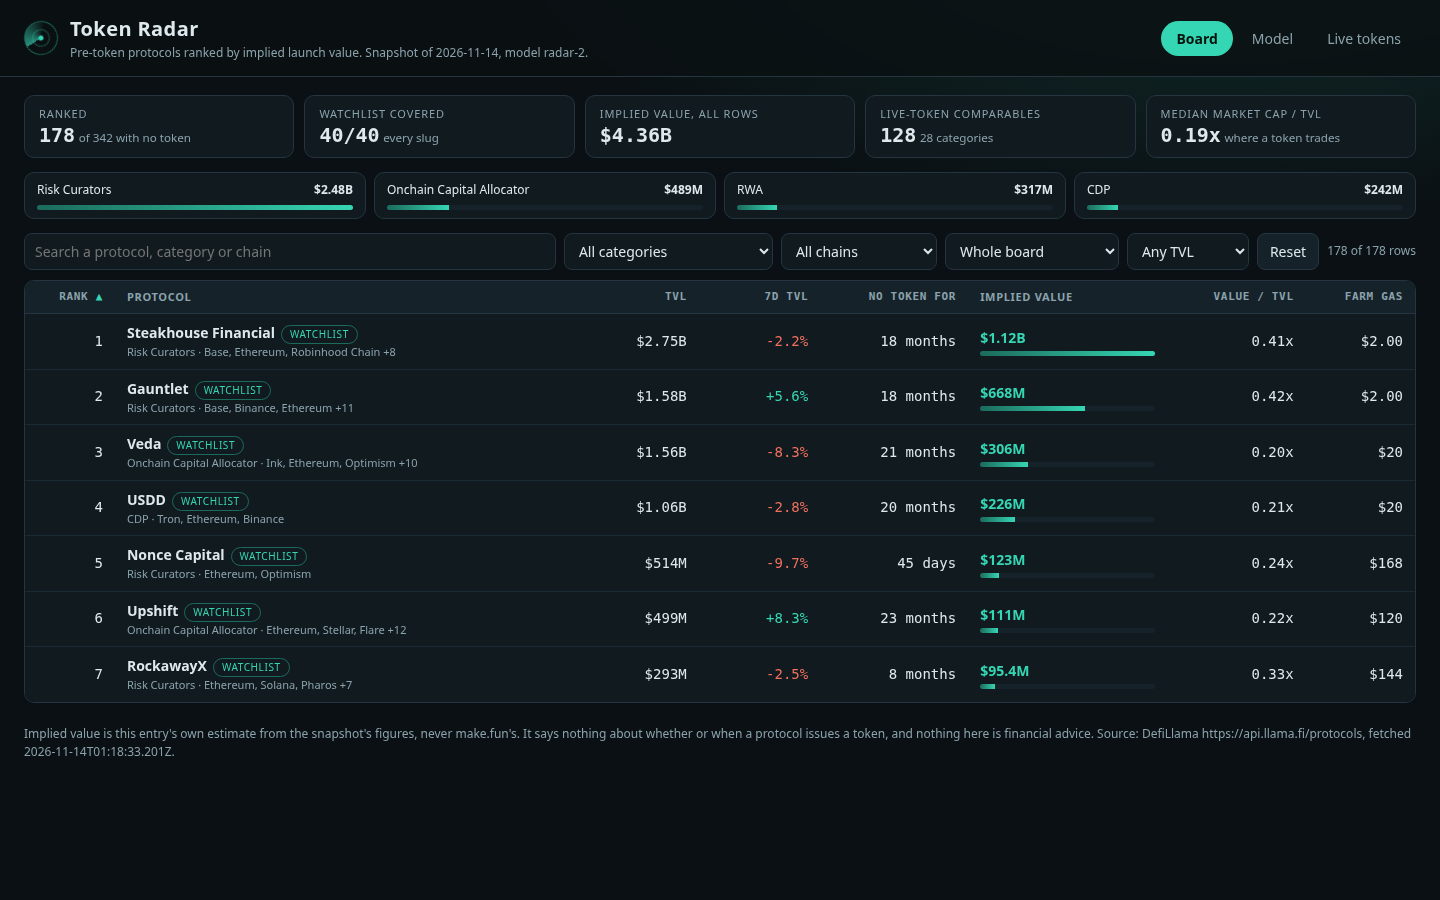
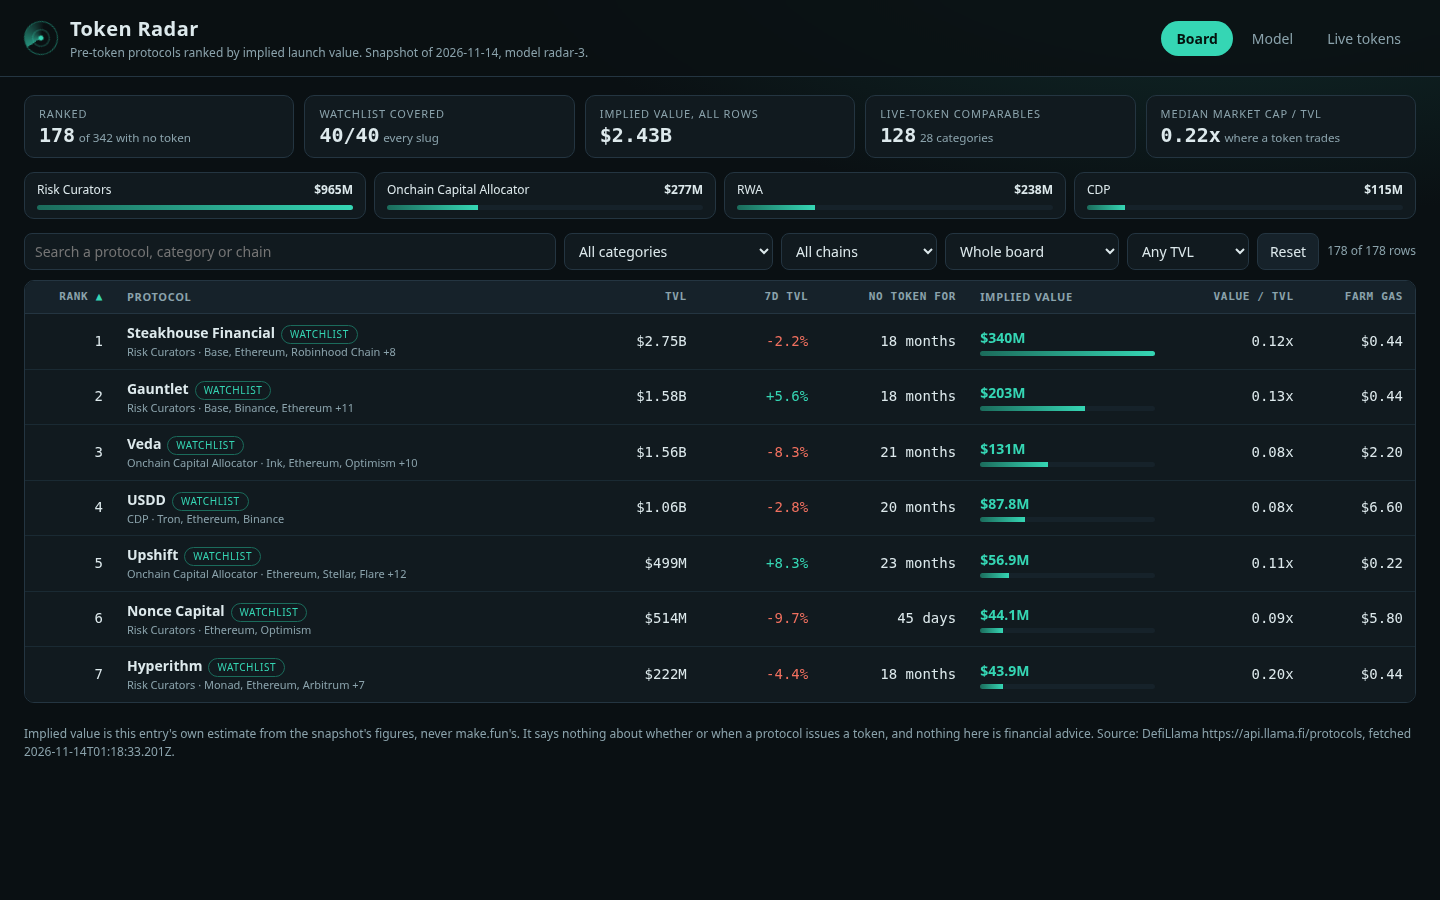
Radar 3: size effect fitted on the comparables, farm plans built from each protocol's own record
Claude-Session: https://claude.ai/code/session_01LBocYHXMdLD7upB1yK7C9V

diff --git a/lib/model.ts b/lib/model.ts
@@ -1,4 +1,4 @@
-// The token radar's model (radar-2): one snapshot in, one ranked board out. Standard library only.
+// The token radar's model (radar-3): one snapshot in, one ranked board out. Standard library only.
 //
 // A protocol is "pre-token" when the snapshot records no token for it (no market cap, no CoinGecko id,
 // no symbol). The board ranks pre-token protocols by an implied launch value, and keeps the protocols
@@ -9,8 +9,12 @@
 //   comparable   = per category, the median of mcap / TVL (each held to 0.03 .. 1.5) over live-token
 //                  protocols of that category, shrunk toward the median of all of them (K = 8
 //                  pseudo-peers) when the category has few, and held to 0.08 .. 1.0
-//   implied      = TVL x comparable x growth x quiet-time x reach
-//   growth       = 1 + 0.5 x clamp(change_7d, -50, +100) / 100              (0.75 .. 1.50)
+//   implied      = TVL x comparable x size x growth x quiet-time x reach
+//   size         = (TVL / median comparable TVL) ^ slope, held to 0.35 .. 1.6, where slope is the least-
+//                  squares slope of ln(mcap / TVL) on ln(TVL) over the same comparables, held to -0.45 .. 0:
+//                  the market pays less per dollar of TVL the bigger the protocol is, and the comparables'
+//                  own multiples are divided by that effect first, so it is counted once
+//   growth      = 1 + 0.5 x clamp(change_7d, -50, +100) / 100              (0.75 .. 1.50)
 //   quiet-time   = 0.7 + 0.5 x min(age, 730) / 730 - 0.25 x clamp((age - 1095) / 1095, 0, 1)
 //                  age is the days DefiLlama has tracked the protocol with no token (unknown: 540)
 //   reach        = 1 + 0.03 x min(chains - 1, 5)                            (1.00 .. 1.15)
@@ -50,6 +54,9 @@ export const MODEL = {
   comp_shrink_peers: 8,
   multiple_floor: 0.08,
   multiple_cap: 1,
+  size_slope_floor: -0.45,
+  size_mult_floor: 0.35,
+  size_mult_cap: 1.6,
   growth_weight: 0.5,
   growth_floor: -50,
   growth_cap: 100,
@@ -65,7 +72,7 @@ export const MODEL = {
 };
 
 /** The model's version label: the dashboard names it. */
-export const MODEL_VERSION = 'radar-2';
+export const MODEL_VERSION = 'radar-3';
 
 /** How many pre-token protocols below the watchlist floor the early radar adds, by TVL. */
 export const EARLY_ROWS = 160;
@@ -108,6 +115,7 @@ export interface BoardRow {
   model: {
     category_multiple: number;
     comp_peers: number;
+    size_multiplier: number;
     growth_multiplier: number;
     quiet_time_multiplier: number;
     reach_multiplier: number;
@@ -137,6 +145,8 @@ export interface RadarData {
   model_version: string;
   model: typeof MODEL;
   global_multiple: number;
+  size_slope: number;
+  size_ref_tvl: number;
   watchlist_size: number;
   protocol_count: number;
   pre_token_count: number;
@@ -195,11 +205,25 @@ export function isCandidate(p: SnapshotProtocol): boolean {
 }
 
 /** The comparables: per category, what live-token protocols are worth per dollar of TVL. */
-export function buildComps(snapshot: Snapshot): { global: number; comps: Map<string, Comp>; live: SnapshotProtocol[] } {
+export function buildComps(snapshot: Snapshot): { global: number; comps: Map<string, Comp>; live: SnapshotProtocol[]; slope: number; refTvl: number } {
   const live = snapshot.protocols.filter((p) => !isPreToken(p) && p.mcap_usd !== null && p.mcap_usd > 0);
   const usable = live.filter((p) => p.tvl_usd >= MODEL.comp_min_tvl_usd && p.category !== null && p.category !== 'CEX');
   // One peer's ratio is held inside a band, so a single outlier cannot set a whole category's multiple.
-  const ratio = (p: SnapshotProtocol): number => clamp(p.mcap_usd! / p.tvl_usd, MODEL.comp_ratio_floor, MODEL.comp_ratio_cap);
+  const raw = (p: SnapshotProtocol): number => clamp(p.mcap_usd! / p.tvl_usd, MODEL.comp_ratio_floor, MODEL.comp_ratio_cap);
+  // The size effect: the least-squares slope of ln(ratio) on ln(TVL) over all comparables.
+  const refTvl = usable.length > 0 ? median(usable.map((p) => p.tvl_usd)) : MODEL.comp_min_tvl_usd;
+  let slope = 0;
+  if (usable.length >= 8) {
+    const xs = usable.map((p) => Math.log(p.tvl_usd / refTvl));
+    const ys = usable.map((p) => Math.log(raw(p)));
+    const mx = xs.reduce((a, b) => a + b, 0) / xs.length;
+    const my = ys.reduce((a, b) => a + b, 0) / ys.length;
+    const sxx = xs.reduce((a, x) => a + (x - mx) ** 2, 0);
+    const sxy = xs.reduce((a, x, i) => a + (x - mx) * (ys[i]! - my), 0);
+    slope = sxx > 0 ? clamp(sxy / sxx, MODEL.size_slope_floor, 0) : 0;
+  }
+  // A comparable's ratio with the size effect taken out: what it would trade at, at the median size.
+  const ratio = (p: SnapshotProtocol): number => raw(p) / Math.pow(p.tvl_usd / refTvl, slope);
   const ratios = usable.map(ratio);
   const global = ratios.length > 0 ? median(ratios) : 0.5;
   const groups = new Map<string, SnapshotProtocol[]>();
@@ -211,7 +235,12 @@ export function buildComps(snapshot: Snapshot): { global: number; comps: Map<str
     const examples = [...peers].sort((a, b) => b.mcap_usd! - a.mcap_usd! || byText(a.slug, b.slug)).slice(0, 3).map((p) => p.name);
     comps.set(category, { category, peers: peers.length, median: round4(med), multiple: round4(clamp(shrunk, MODEL.multiple_floor, MODEL.multiple_cap)), examples });
   }
-  return { global: round4(clamp(global, MODEL.multiple_floor, MODEL.multiple_cap)), comps, live };
+  return { global: round4(clamp(global, MODEL.multiple_floor, MODEL.multiple_cap)), comps, live, slope: round4(slope), refTvl };
+}
+
+/** The size multiplier for a TVL: below the comparables' median size a protocol earns more per dollar, above it less. */
+export function sizeMultiplier(tvl: number, refTvl: number, slope: number): number {
+  return clamp(Math.pow(Math.max(tvl, 1) / refTvl, slope), MODEL.size_mult_floor, MODEL.size_mult_cap);
 }
 
 /** The growth multiplier for a seven-day TVL change in per cent. */
@@ -291,25 +320,49 @@ function actionsFor(p: SnapshotProtocol, capital: number, chain: string): [strin
 }
 
 /** A farm plan: seven steps, each with a cost and a time, derived from the protocol's own record. */
-export function farmPlan(p: SnapshotProtocol, age: number | null): { plan: FarmStep[]; capital: number; gas: number; days: number } {
-  const chain = p.chains.length > 0 ? p.chains[0]! : 'its main chain';
+export function farmPlan(p: SnapshotProtocol, age: number | null, peers: Comp | undefined): { plan: FarmStep[]; capital: number; gas: number; days: number; chain: string } {
+  // The cheapest of the chains the protocol counts TVL on is where the plan runs; ties keep the listed order.
+  const chain = p.chains.length > 0 ? p.chains.reduce((best, c) => (gasPerTx(c) < gasPerTx(best) ? c : best)) : 'its main chain';
   const g = gasPerTx(chain);
   const capital = capitalFor(p.tvl_usd);
   const days = holdDaysFor(age);
   const weeks = Math.ceil(days / 7);
   const [open, second] = actionsFor(p, capital, chain);
   const weekly = g * 2;
-  const total = g * 6 + weekly * weeks;
+  const move = p.change_7d;
+  const where = chain === p.chains[0] || p.chains.length < 2 ? `on ${chain}` : `on ${chain}, the cheapest of its ${p.chains.length} chains`;
+  const peerText = peers === undefined ? `Its category has no live token to compare with, so no price is implied by a peer.` : `Live ${p.category} protocols such as ${peers.examples[0]} trade near ${(peers.median * 100).toFixed(0)}% of their TVL, which is the range this board prices ${p.name} in.`;
+  // The signal step reads the protocol's own record: its growth, its age and its size decide what to look for first.
+  const momentum = move === null
+    ? `DefiLlama reports no seven-day change for ${p.name}, so look at its TVL chart yourself before you deposit.`
+    : move >= 15
+      ? `TVL is up ${move.toFixed(0)}% in a week, which usually means an incentive programme is running: look for a live points page, and expect deposit caps.`
+      : move <= -15
+        ? `TVL is down ${Math.abs(move).toFixed(0)}% in a week: find out why (an exploit, a campaign that ended) before any money goes in.`
+        : `TVL is steady (${move >= 0 ? '+' : ''}${move.toFixed(1)}% in a week), so there is no campaign rush: enter at your own pace.`;
+  const maturity = age === null
+    ? ''
+    : age < 180
+      ? ` It has been tracked only ${Math.max(1, Math.round(age / 30))} months: early users are what first snapshots tend to reward, so start in the first week.`
+      : age > 730
+        ? ` It has been tracked ${(age / 365).toFixed(1)} years with no token: any reward would likely favour long-time users, so a late start earns little extra.`
+        : '';
+  const scale = p.tvl_usd >= 1_000_000_000
+    ? `At ${p.tvl_usd >= 1e10 ? '$10B' : `$${(p.tvl_usd / 1e9).toFixed(1)}B`} of TVL, ${usd(capital)} is a rounding error, so only a per-wallet rule can reward it: cover several features, not more money.`
+    : `With $${Math.max(1, Math.round(p.tvl_usd / 1e6))}M of TVL, ${usd(capital)} is still a small position: a reward that scales with dollars pays little, so favour what counts wallets and actions.`;
   const plan: FarmStep[] = [
-    { text: `Open a wallet used only for this, with the seed phrase kept offline. Fund it with ${usd(capital)} and a gas reserve of ${usd(g * 10)} on ${chain}.`, cost: `${usd(g * 2)} of gas to fund it`, time: '10 minutes' },
-    { text: `Reach ${p.name} through the link on its DefiLlama listing, not a search ad. Read what its docs say counts toward rewards, and whether it runs a points page.`, cost: 'nothing', time: '20 minutes' },
+    { text: `Open a wallet used only for this, with the seed phrase kept offline. Fund it with ${usd(capital)} and a gas reserve of ${usd(g * 10)} ${where}.`, cost: `${usd(g * 2)} of gas to fund it`, time: '10 minutes' },
+    { text: `Reach ${p.name} through the link on its DefiLlama listing, not a search ad. Read what its docs say counts toward rewards. ${peerText}`, cost: 'nothing', time: '20 minutes' },
+    { text: `${momentum}${maturity} ${scale}`, cost: 'nothing', time: '10 minutes' },
     { text: open, cost: `${usd(capital)} of capital and ${usd(g * 3)} of gas`, time: '15 minutes' },
     { text: second, cost: `about ${usd(g * 3)} of gas`, time: '15 minutes' },
+    ...(p.chains.length >= 3 ? [{ text: `${p.name} counts TVL on ${p.chains.length} chains. Make one small deposit of about ${usd(capital / 10)} on a second chain it supports, so the wallet is seen across chains.`, cost: `about ${usd(g * 4)} of gas, plus a bridge fee of a few dollars`, time: '20 minutes' }] : []),
     { text: `Make one qualifying action a week for ${weeks} weeks: a deposit, a swap, a vote or a claim of the protocol's own points.`, cost: `${usd(weekly)} of gas a week, ${usd(weekly * weeks)} in all`, time: '10 minutes a week' },
     { text: `Hold the position for ${days} days, so it sits inside more than one snapshot. Withdraw only after the window, or after the protocol publishes a snapshot date.`, cost: `${usd(capital)} stays at risk, and earns the pool's own yield`, time: `${days} days` },
     { text: `Revoke token approvals when done, never sign a claim from a link in a message, and keep a log of each transaction. One wallet is the plan: splitting it across many wallets is what reward filters look for.`, cost: `${usd(g)} of gas to revoke`, time: '15 minutes' },
   ];
-  return { plan, capital, gas: Math.round(total * 100) / 100, days };
+  const total = g * (plan.length - 1) + weekly * weeks;
+  return { plan, capital, gas: Math.round(total * 100) / 100, days, chain };
 }
 
 /** A step as one string within the gate's 20 to 600 characters: its action, then its cost and time. */
@@ -320,7 +373,7 @@ export function stepText(step: FarmStep): string {
 
 /** The ranked board and the data the dashboard renders, from one snapshot. */
 export function buildRadar(snapshot: Snapshot): { board: BoardRow[]; radar: RadarData } {
-  const { global, comps, live } = buildComps(snapshot);
+  const { global, comps, live, slope, refTvl } = buildComps(snapshot);
   const index = new Map(snapshot.protocols.map((p) => [p.slug, p]));
   const watch = new Set(snapshot.watchlist);
   const chosen = new Map<string, SnapshotProtocol>();
@@ -340,18 +393,19 @@ export function buildRadar(snapshot: Snapshot): { board: BoardRow[]; radar: Rada
     const age = ageDays(snapshot.as_of, p.listed_at);
     const comp = p.category === null ? undefined : comps.get(p.category);
     const multiple = comp === undefined ? global : comp.multiple;
+    const size = sizeMultiplier(p.tvl_usd, refTvl, slope);
     const growth = growthMultiplier(p.change_7d);
     const quiet = quietTimeMultiplier(age);
     const reach = reachMultiplier(p.chains.length);
-    const implied = Math.max(1, Math.round(p.tvl_usd * multiple * growth * quiet * reach));
-    return { p, age, comp, multiple, growth, quiet, reach, implied };
+    const implied = Math.max(1, Math.round(p.tvl_usd * multiple * size * growth * quiet * reach));
+    return { p, age, comp, multiple, size, growth, quiet, reach, implied };
   });
   scored.sort((a, b) => b.implied - a.implied || byText(a.p.slug, b.p.slug));
 
   const board: BoardRow[] = [];
   const rows: RadarData['rows'] = [];
   scored.forEach((s, i) => {
-    const farm = farmPlan(s.p, s.age);
+    const farm = farmPlan(s.p, s.age, s.comp);
     const row = {
       rank: i + 1,
       slug: s.p.slug,
@@ -370,6 +424,7 @@ export function buildRadar(snapshot: Snapshot): { board: BoardRow[]; radar: Rada
       model: {
         category_multiple: s.multiple,
         comp_peers: s.comp?.peers ?? 0,
+        size_multiplier: round4(s.size),
         growth_multiplier: round4(s.growth),
         quiet_time_multiplier: round4(s.quiet),
         reach_multiplier: round4(s.reach),
@@ -393,6 +448,8 @@ export function buildRadar(snapshot: Snapshot): { board: BoardRow[]; radar: Rada
     model_version: MODEL_VERSION,
     model: MODEL,
     global_multiple: global,
+    size_slope: slope,
+    size_ref_tvl: Math.round(refTvl),
     watchlist_size: snapshot.watchlist.length,
     protocol_count: snapshot.protocols.length,
     pre_token_count: snapshot.protocols.filter(isPreToken).length,

diff --git a/dashboard/app.js b/dashboard/app.js
@@ -176,6 +176,7 @@
       '<div class="card"><h3>How the value is built</h3>' +
       factor('TVL', money(r.tvl_usd), 'The protocol\'s own total value locked in the snapshot.', 1) +
       factor('x Category multiple', x(m.category_multiple), comp ? 'Live ' + esc(r.category) + ' protocols trade at a median ' + x(comp.median) + ' of TVL across ' + comp.peers + (comp.peers === 1 ? ' peer' : ' peers') + ' (' + esc(comp.examples.join(', ')) + '), shrunk toward the all-category median ' + x(R.global_multiple) + (comp.peers < 3 ? ', and pulled hard toward it because the category is thin' : '') + '.' : 'No live peers in this category: the all-category median ' + x(R.global_multiple) + ' applies.', m.category_multiple / M.multiple_cap) +
+      factor('x Size', x(m.size_multiplier), 'The market pays less per dollar of TVL the bigger a protocol is: across the live comparables the slope is ' + R.size_slope.toFixed(2) + ' in logs, around a median size of ' + money(R.size_ref_tvl) + '. Held between ' + x(M.size_mult_floor) + ' and ' + x(M.size_mult_cap) + '.', (m.size_multiplier - M.size_mult_floor) / (M.size_mult_cap - M.size_mult_floor)) +
       factor('x Growth', x(m.growth_multiplier), growthText, (m.growth_multiplier - 0.75) / 0.75) +
       factor('x Quiet time', x(m.quiet_time_multiplier), quietText, (m.quiet_time_multiplier - 0.45) / 0.75) +
       factor('x Reach', x(m.reach_multiplier), r.chains.length + ' chains counted: each extra chain adds ' + (M.reach_step * 100) + '%, up to ' + M.reach_max_extra_chains + ' extra.', (m.reach_multiplier - 1) / 0.15) +
@@ -190,8 +191,9 @@
   function modelView() {
     $('view').innerHTML =
       '<div class="cols"><div><div class="card"><h3>The model, ' + esc(R.model_version) + '</h3>' +
-      '<div class="formula">implied = TVL<br>&nbsp;&nbsp;x category multiple<br>&nbsp;&nbsp;x growth<br>&nbsp;&nbsp;x quiet time<br>&nbsp;&nbsp;x reach</div>' +
-      '<p class="note"><b>Category multiple:</b> the median of market cap / TVL over live-token protocols of the same category with at least ' + money(M.comp_min_tvl_usd) + ' of TVL, shrunk toward the all-category median (' + x(R.global_multiple) + ') by ' + M.comp_shrink_peers + ' pseudo-peers, and held between ' + x(M.multiple_floor) + ' and ' + x(M.multiple_cap) + '.</p>' +
+      '<div class="formula">implied = TVL<br>&nbsp;&nbsp;x category multiple<br>&nbsp;&nbsp;x size<br>&nbsp;&nbsp;x growth<br>&nbsp;&nbsp;x quiet time<br>&nbsp;&nbsp;x reach</div>' +
+      '<p class="note"><b>Category multiple:</b> the median of market cap / TVL, at the median size, over live-token protocols of the same category with at least ' + money(M.comp_min_tvl_usd) + ' of TVL, shrunk toward the all-category median (' + x(R.global_multiple) + ') by ' + M.comp_shrink_peers + ' pseudo-peers, and held between ' + x(M.multiple_floor) + ' and ' + x(M.multiple_cap) + '.</p>' +
+      '<p class="note"><b>Size:</b> (TVL / ' + money(R.size_ref_tvl) + ') ^ ' + R.size_slope.toFixed(2) + ', the least-squares slope of ln(market cap / TVL) on ln(TVL) over the live comparables, held between ' + x(M.size_mult_floor) + ' and ' + x(M.size_mult_cap) + '. Each comparable\'s own multiple has this effect divided out first, so it is counted once.</p>' +
       '<p class="note"><b>Growth:</b> 1 + ' + M.growth_weight + ' x the seven-day TVL change, held between ' + M.growth_floor + '% and +' + M.growth_cap + '%, so 0.75x to 1.50x.</p>' +
       '<p class="note"><b>Quiet time:</b> ' + M.quiet_floor + ' + ' + M.quiet_gain + ' x min(age, ' + M.quiet_ramp_days + ') / ' + M.quiet_ramp_days + ', less up to ' + M.quiet_decay + ' once the age passes ' + M.quiet_decay_start_days + ' days, where age is the days DefiLlama has tracked the protocol with no token. This shape is an assumption, not a measurement.</p>' +
       '<p class="note"><b>Reach:</b> 1 + ' + M.reach_step + ' per extra chain, up to ' + M.reach_max_extra_chains + ' extra.</p></div>' +

diff --git a/README.md b/README.md
@@ -4,7 +4,7 @@
 [![rank](https://make.fun/badge/token-radar-01/kylus/token-radar/rank.svg)](https://make.fun/bounty/token-radar-01/leaderboard?utm_source=github&utm_medium=readme&utm_campaign=token-radar-01)
 [![reward](https://make.fun/badge/token-radar-01/kylus/token-radar/reward.svg)](https://make.fun/bounty/token-radar-01?utm_source=github&utm_medium=readme&utm_campaign=token-radar-01)
 
-A token launch radar. It reads a sealed DefiLlama snapshot, finds the protocols that record no token, and ranks them by an implied launch value: TVL times what the snapshot's own live-token protocols of the same category trade at, adjusted for seven-day growth, how long the protocol has run with no token, and how many chains it spans. Every row carries a seven-step farm plan with a cost and a time for each step, and a static dashboard (no framework, no network) shows the board, a detail view for each protocol, the model and its comparables.
+A token launch radar. It reads a sealed DefiLlama snapshot, finds the protocols that record no token, and ranks them by an implied launch value: TVL times what the snapshot's own live-token protocols of the same category trade at, adjusted for size (a slope fitted on those same comparables), seven-day growth, how long the protocol has run with no token, and how many chains it spans. Every row carries a farm plan of 8 or 9 steps, each with a cost and a time, built from that protocol's own growth, age, size, chains and comparables, and a static dashboard (no framework, no network) shows the board, a detail view for each protocol, the model and its comparables.
 
 Standard library only, deterministic, no clock and no randomness. The implied value is this entry's own estimate; it says nothing about whether or when a protocol issues a token.
 
